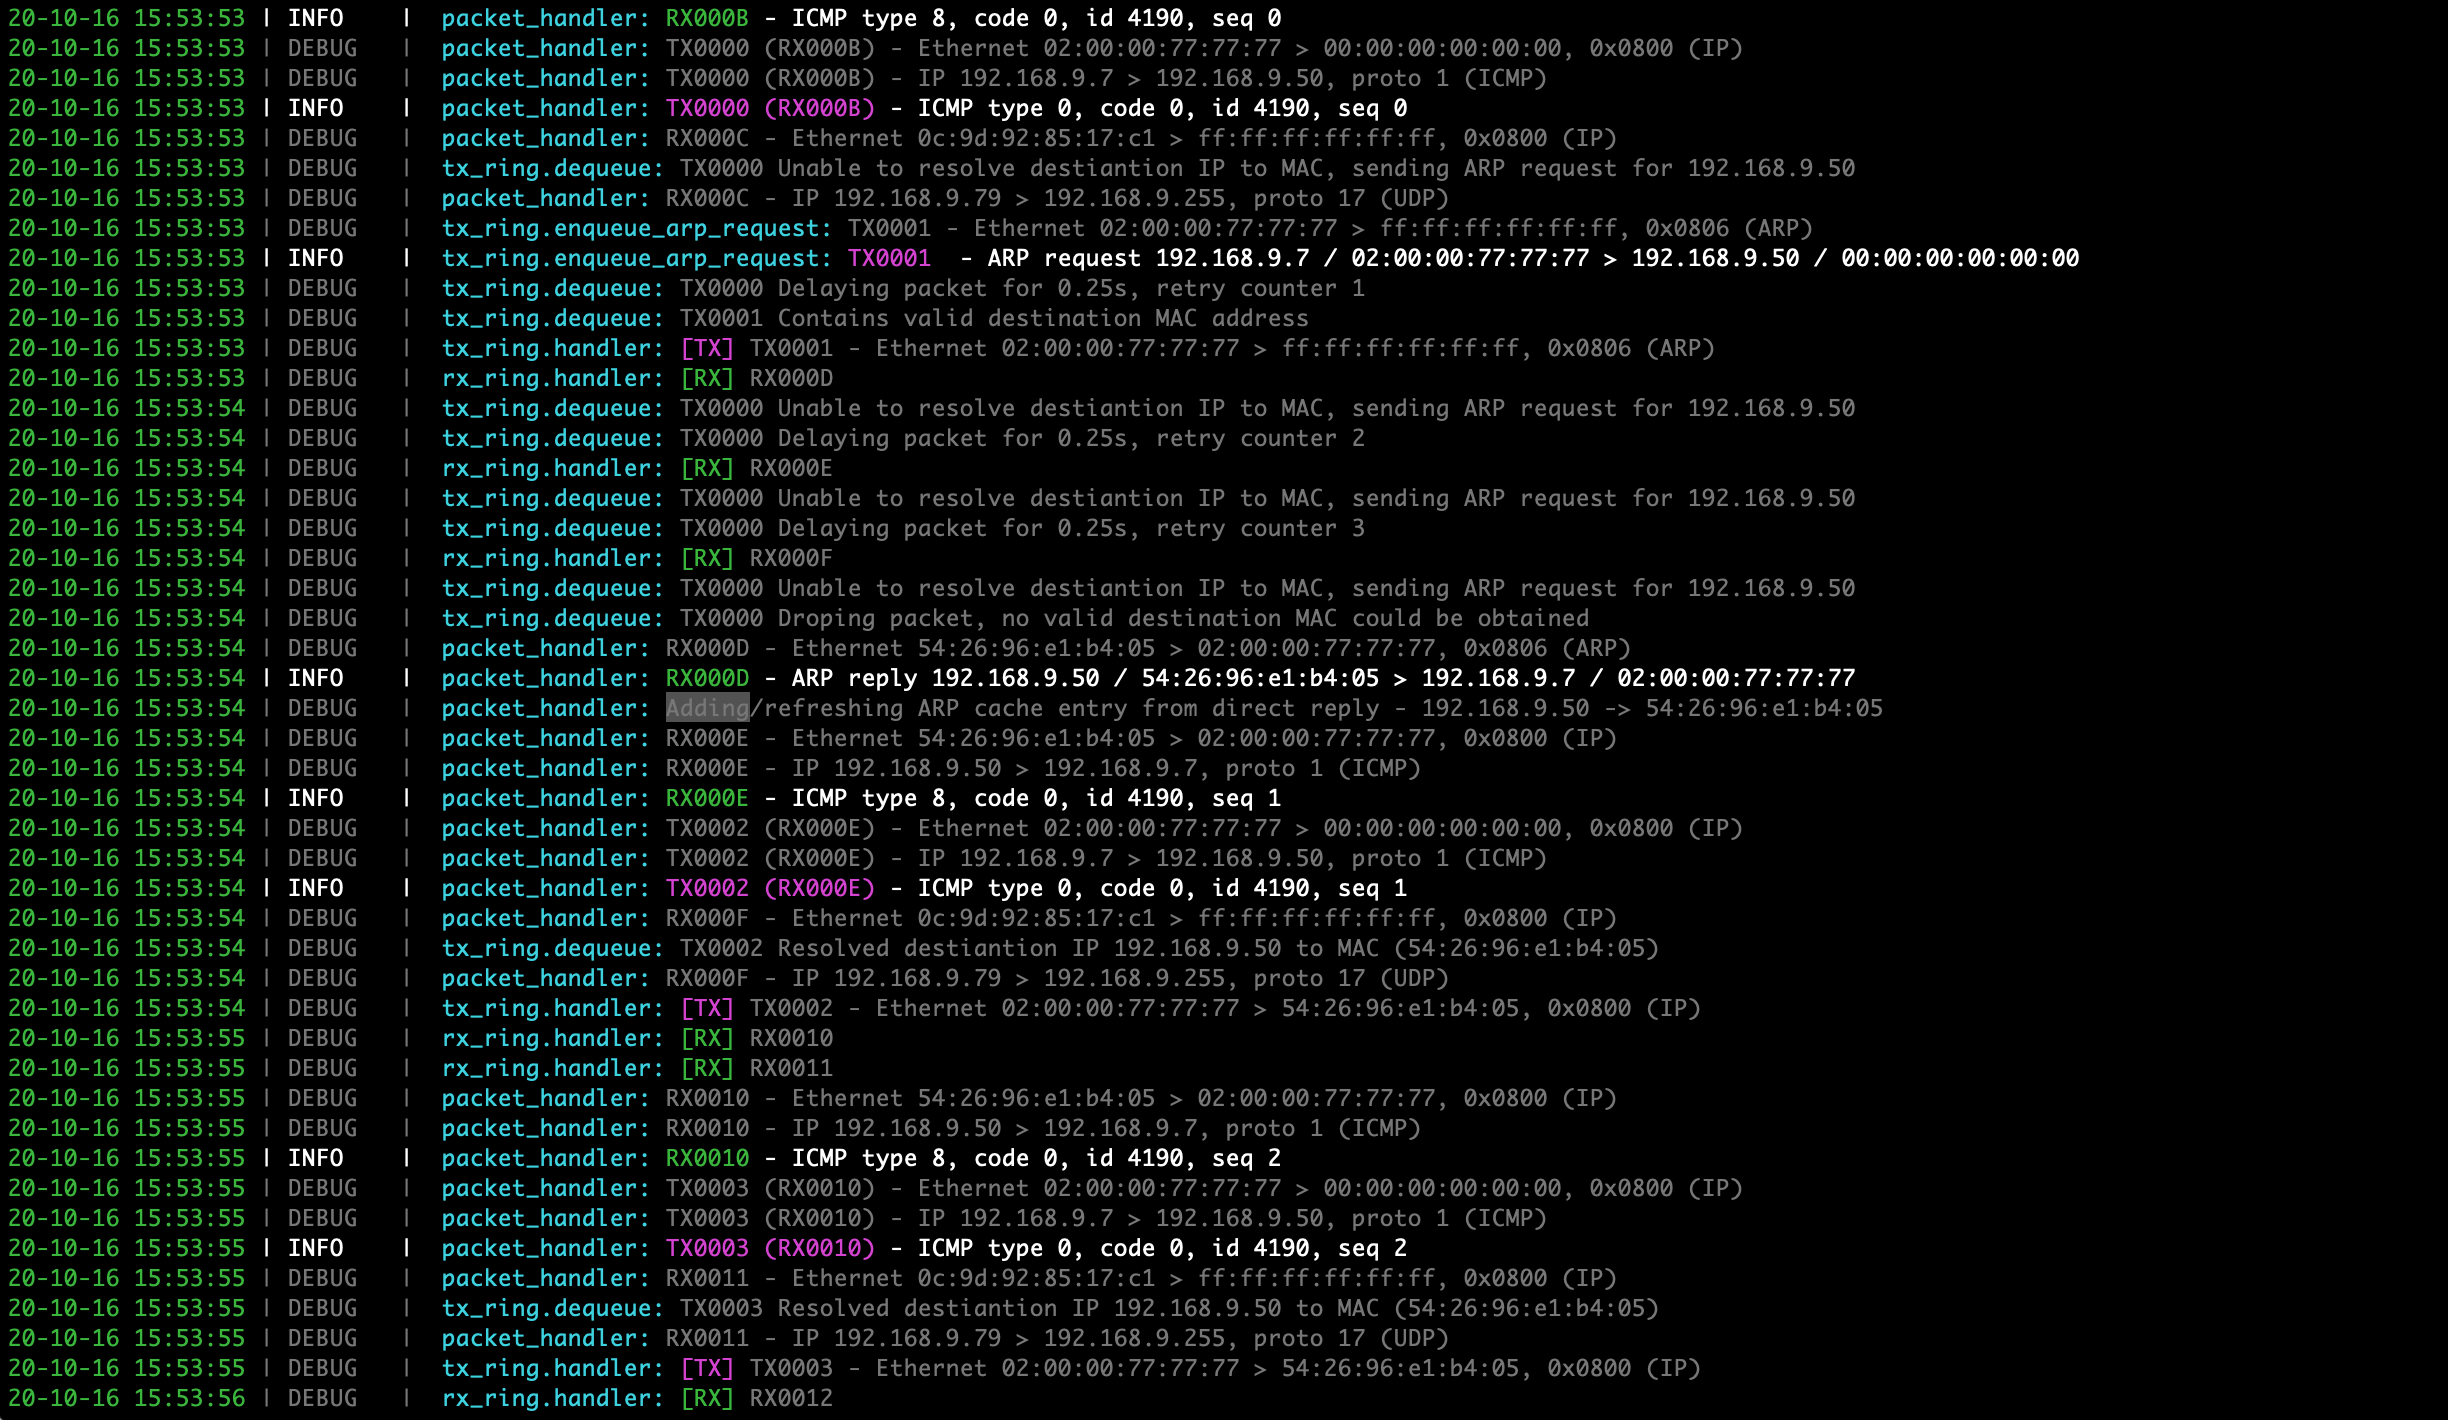
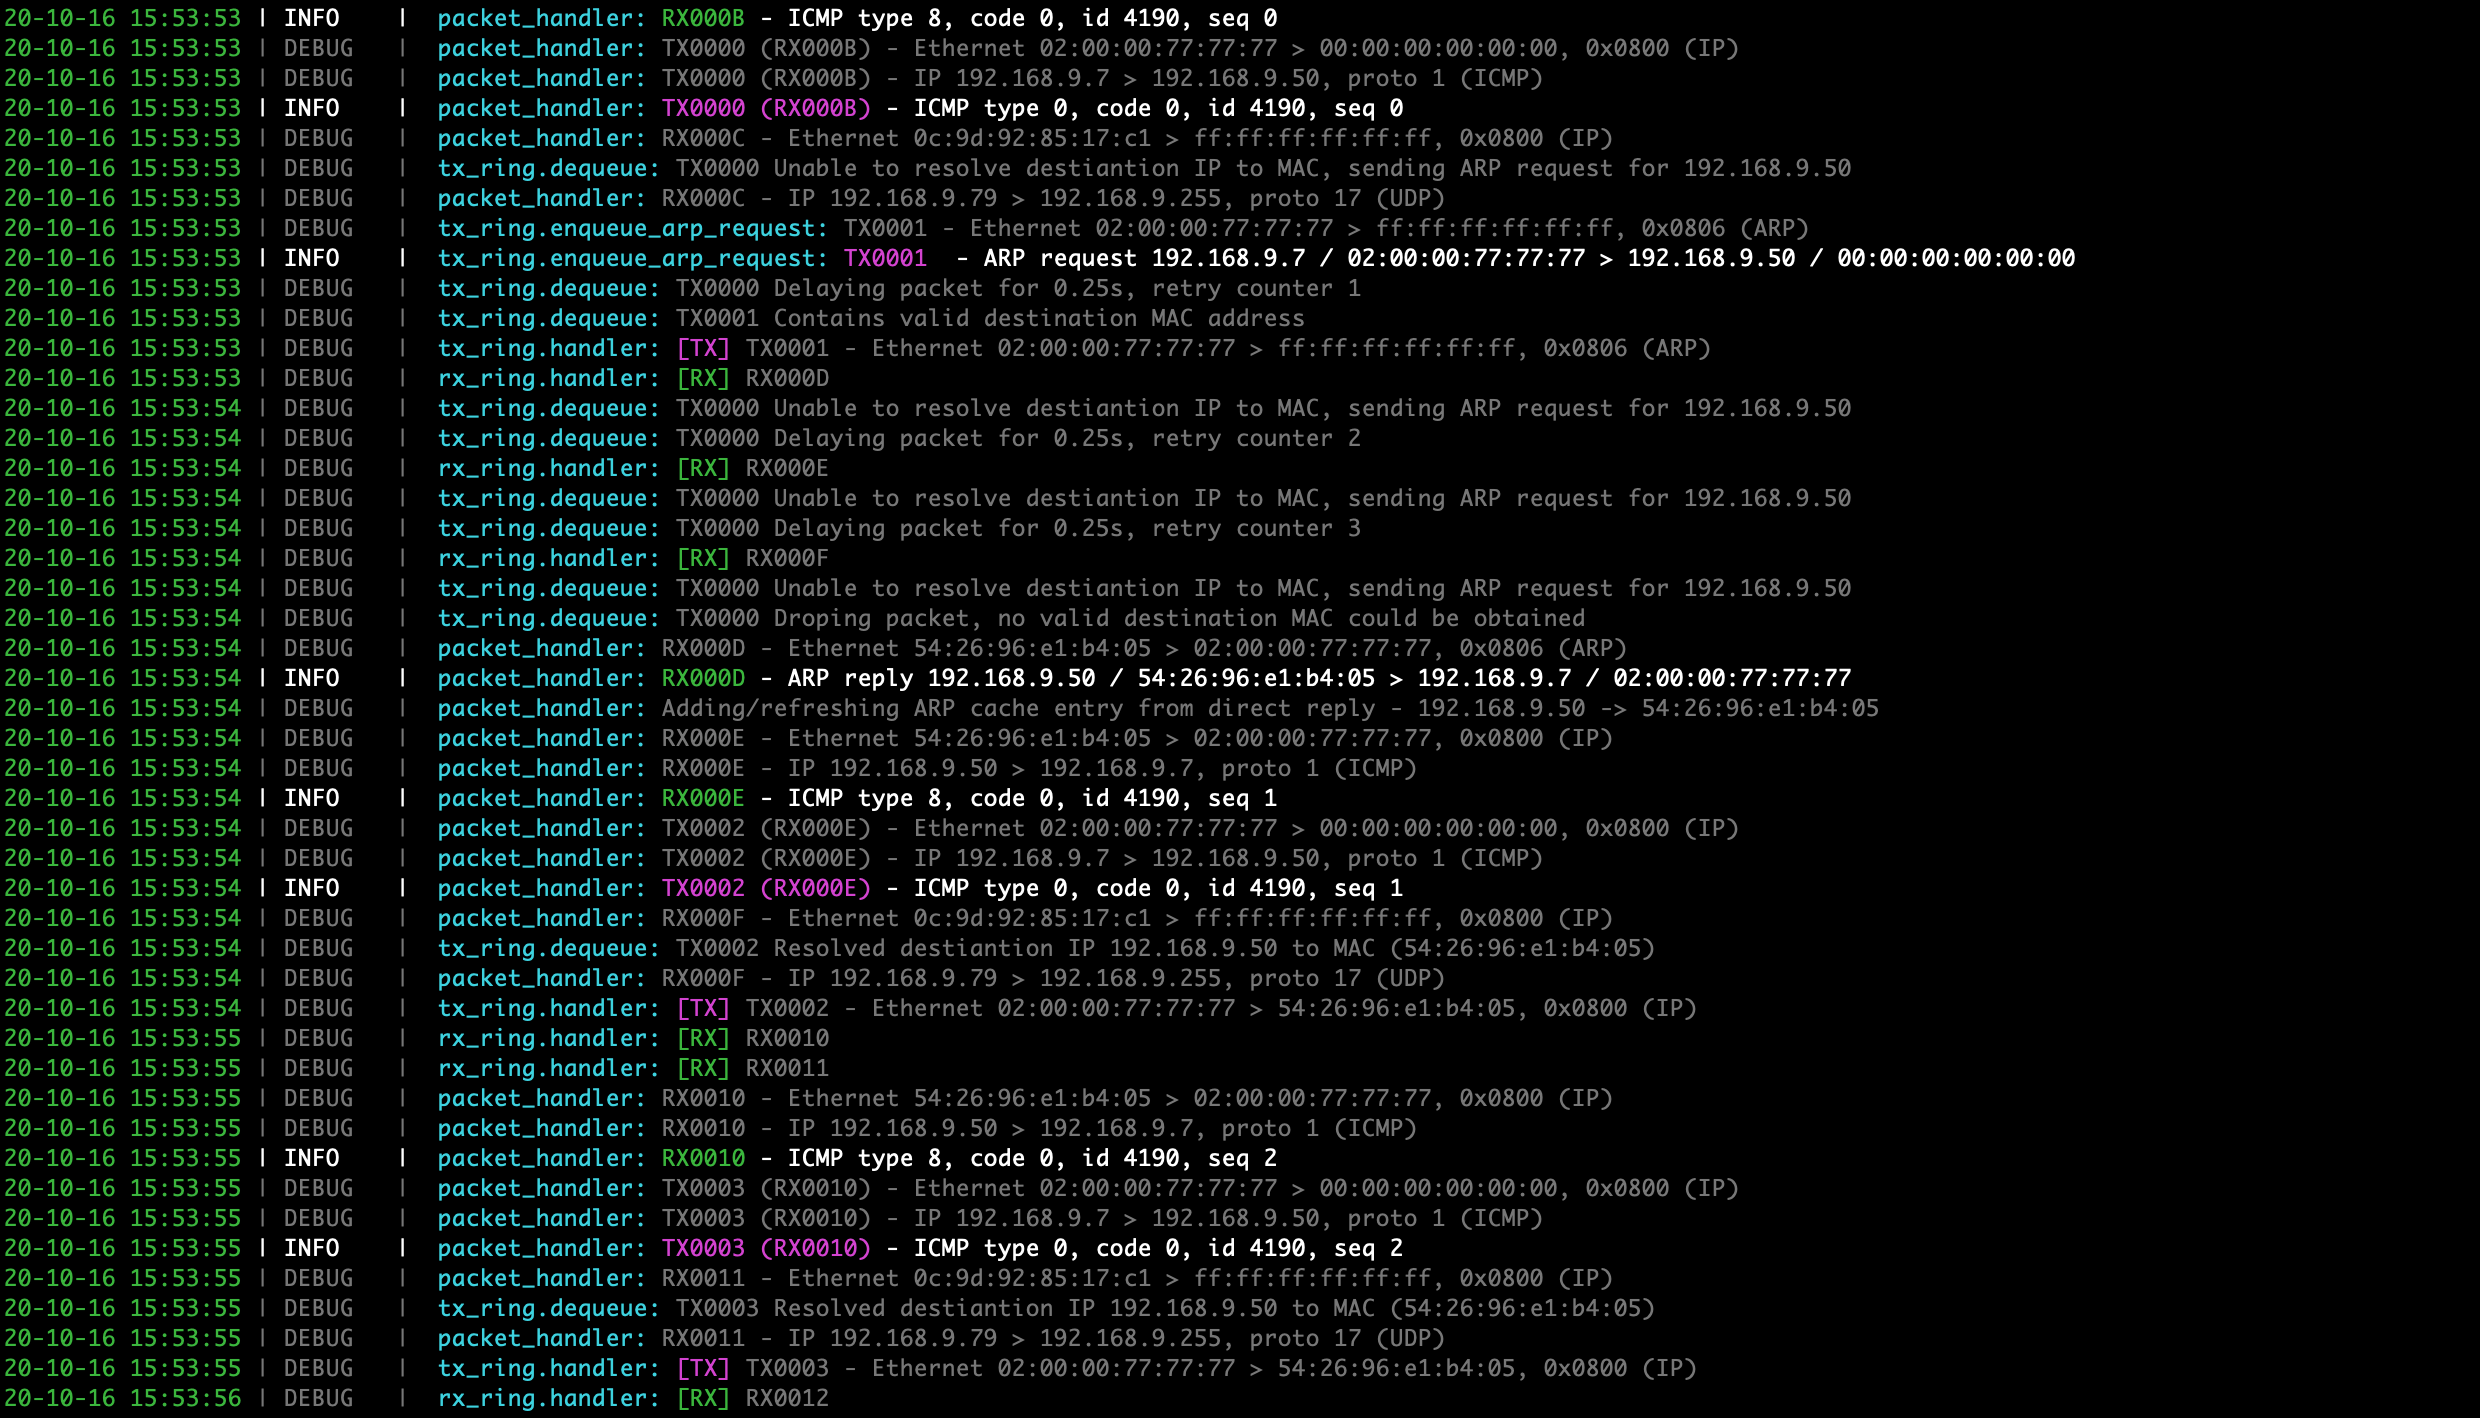
Updating README

Changed region(s): [[0.0, 0.0, 0.8693, 0.9929]]

diff --git a/README.md b/README.md
@@ -3,4 +3,4 @@
 Attempt to create working TCP/IP stack in Python for educational purpose. Stack operates as user space program attached to tap interface. It has its own MAC and IP addresses. So far it has full ARP support with cashing, aging out and refreshing entries. It responds to ARP requests and sends out ARP requests when needed. It also has basic support for IP and ICMP protocols enablng it to respond to ping packets. Next steps is support for UDP protocol wth basic echo service.
 
 ### Sample log showing ARP resolution and handling ping packets
-![Sample PyTCP log output](https://github.com/ccie18643/PyTCP/blob/main/pictures/log_01.jpg)
+![Sample PyTCP log output](https://github.com/ccie18643/PyTCP/blob/main/pictures/log_01.png)
